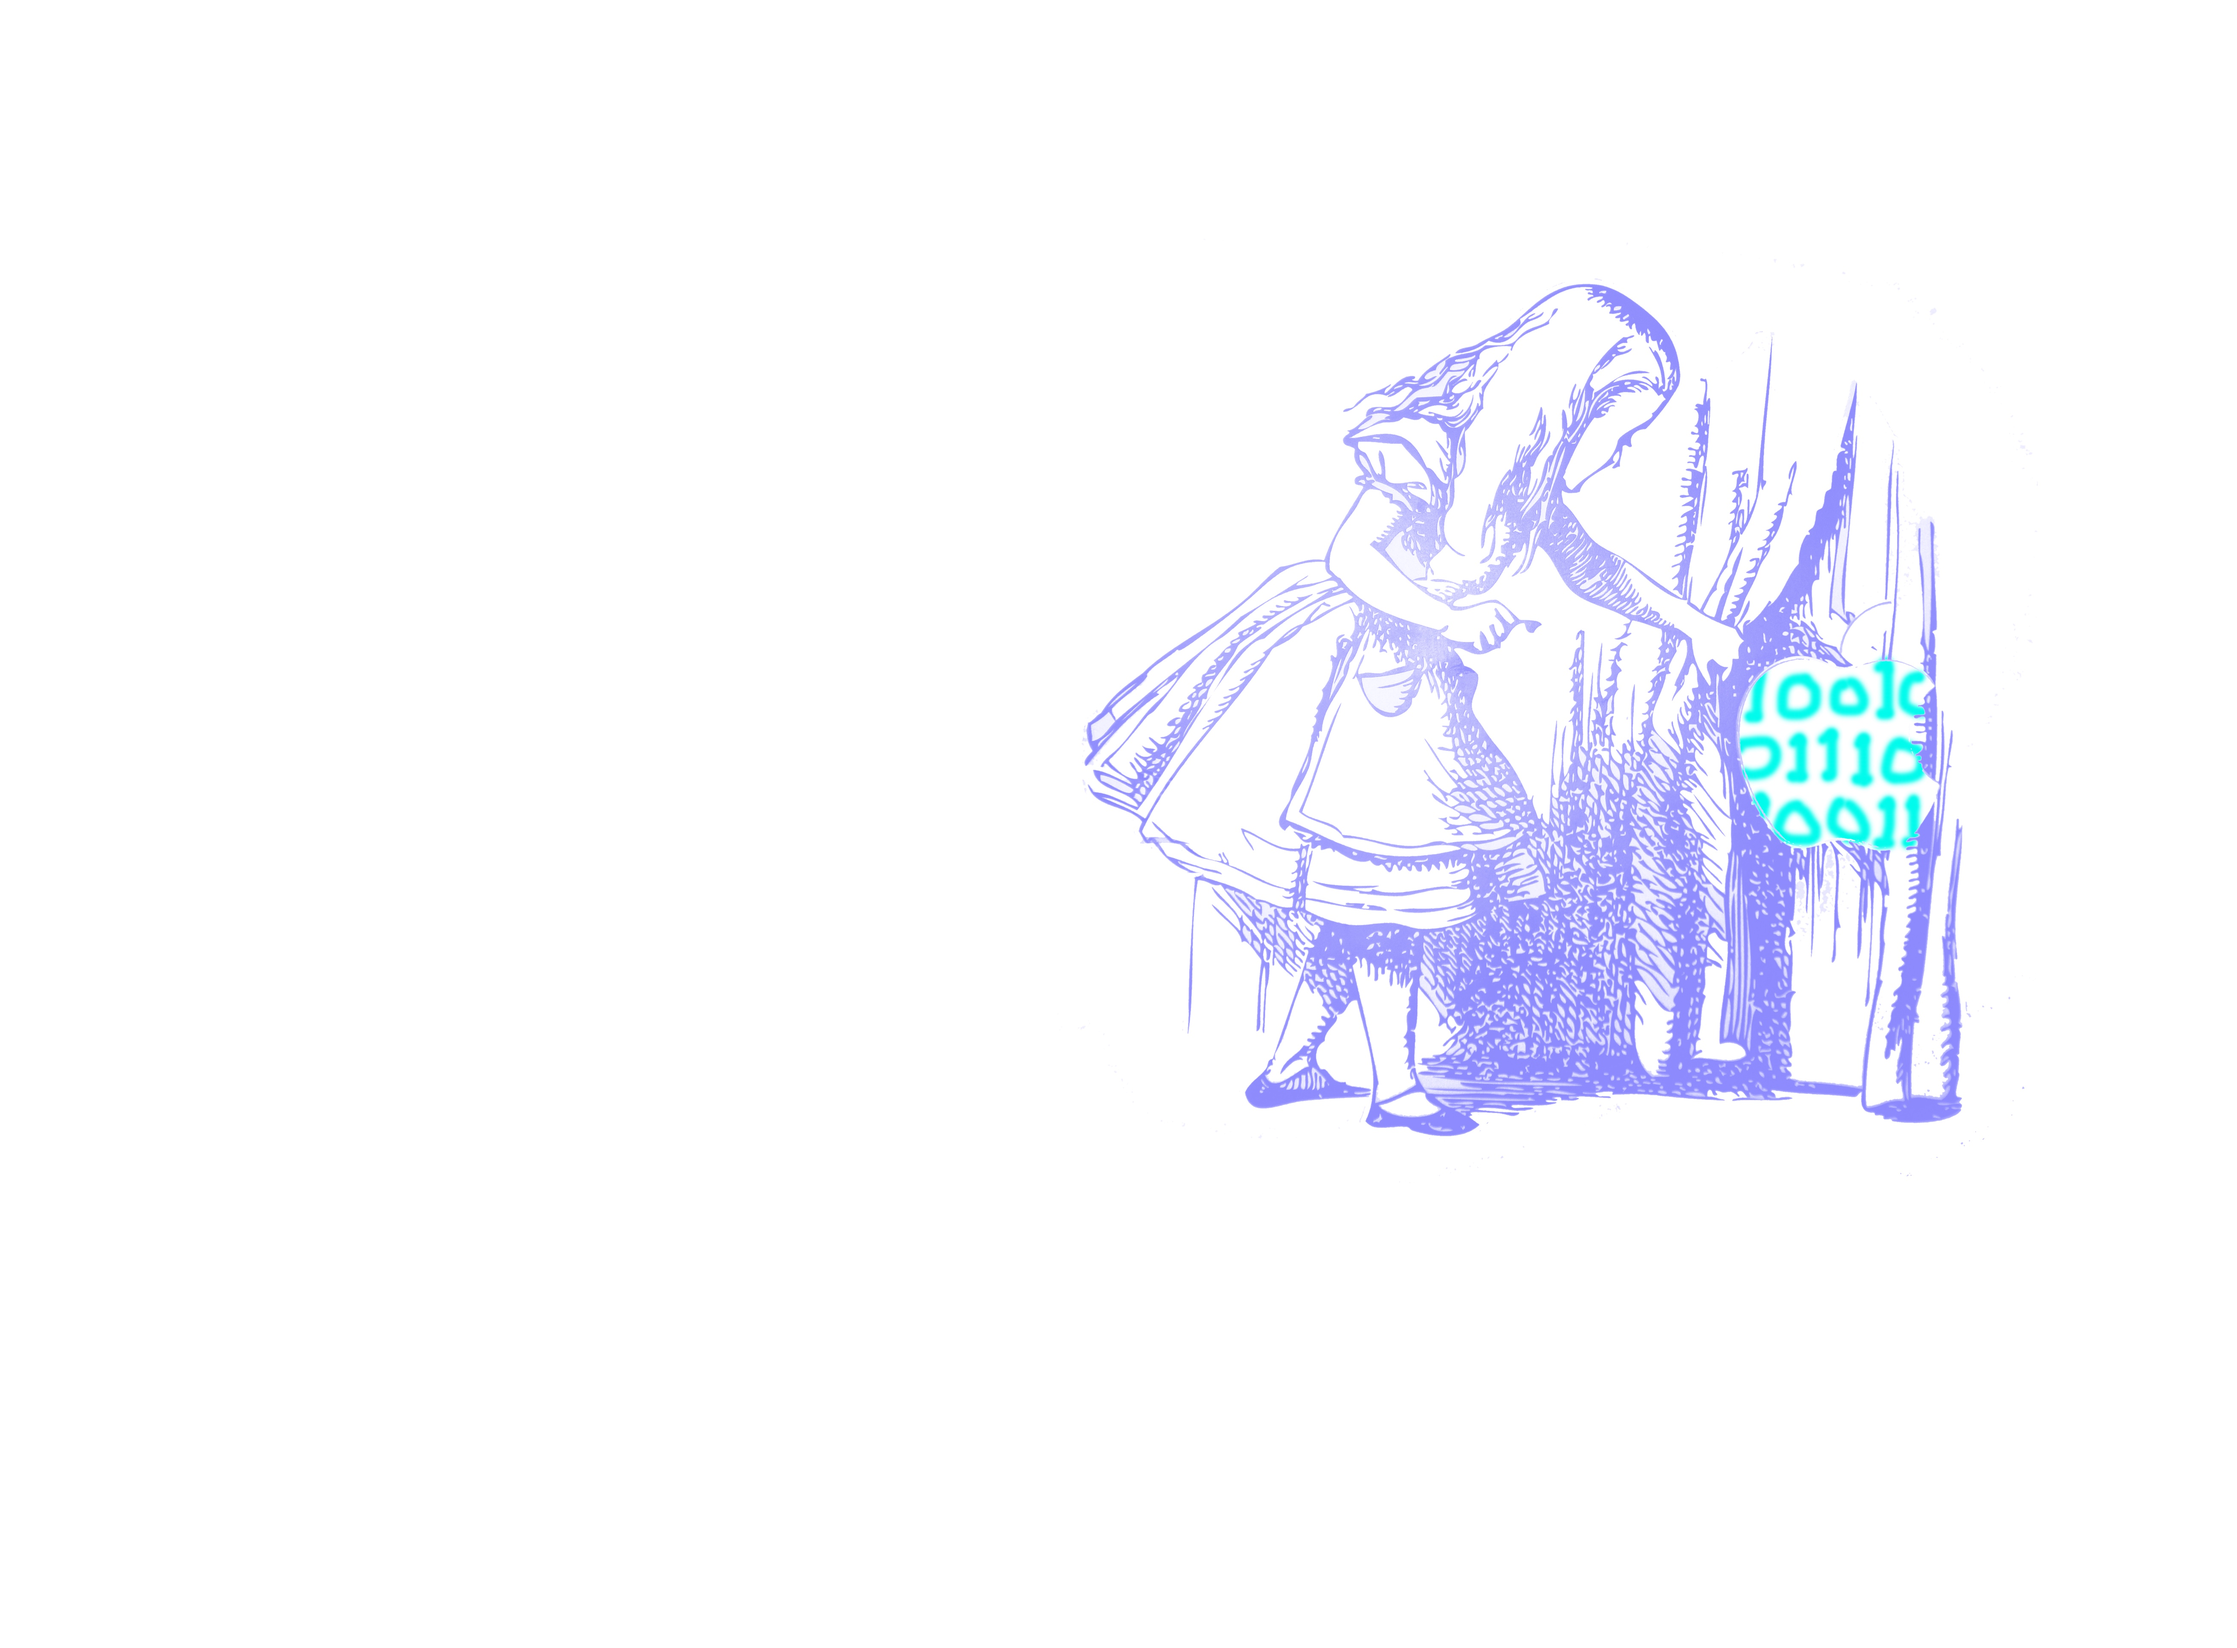
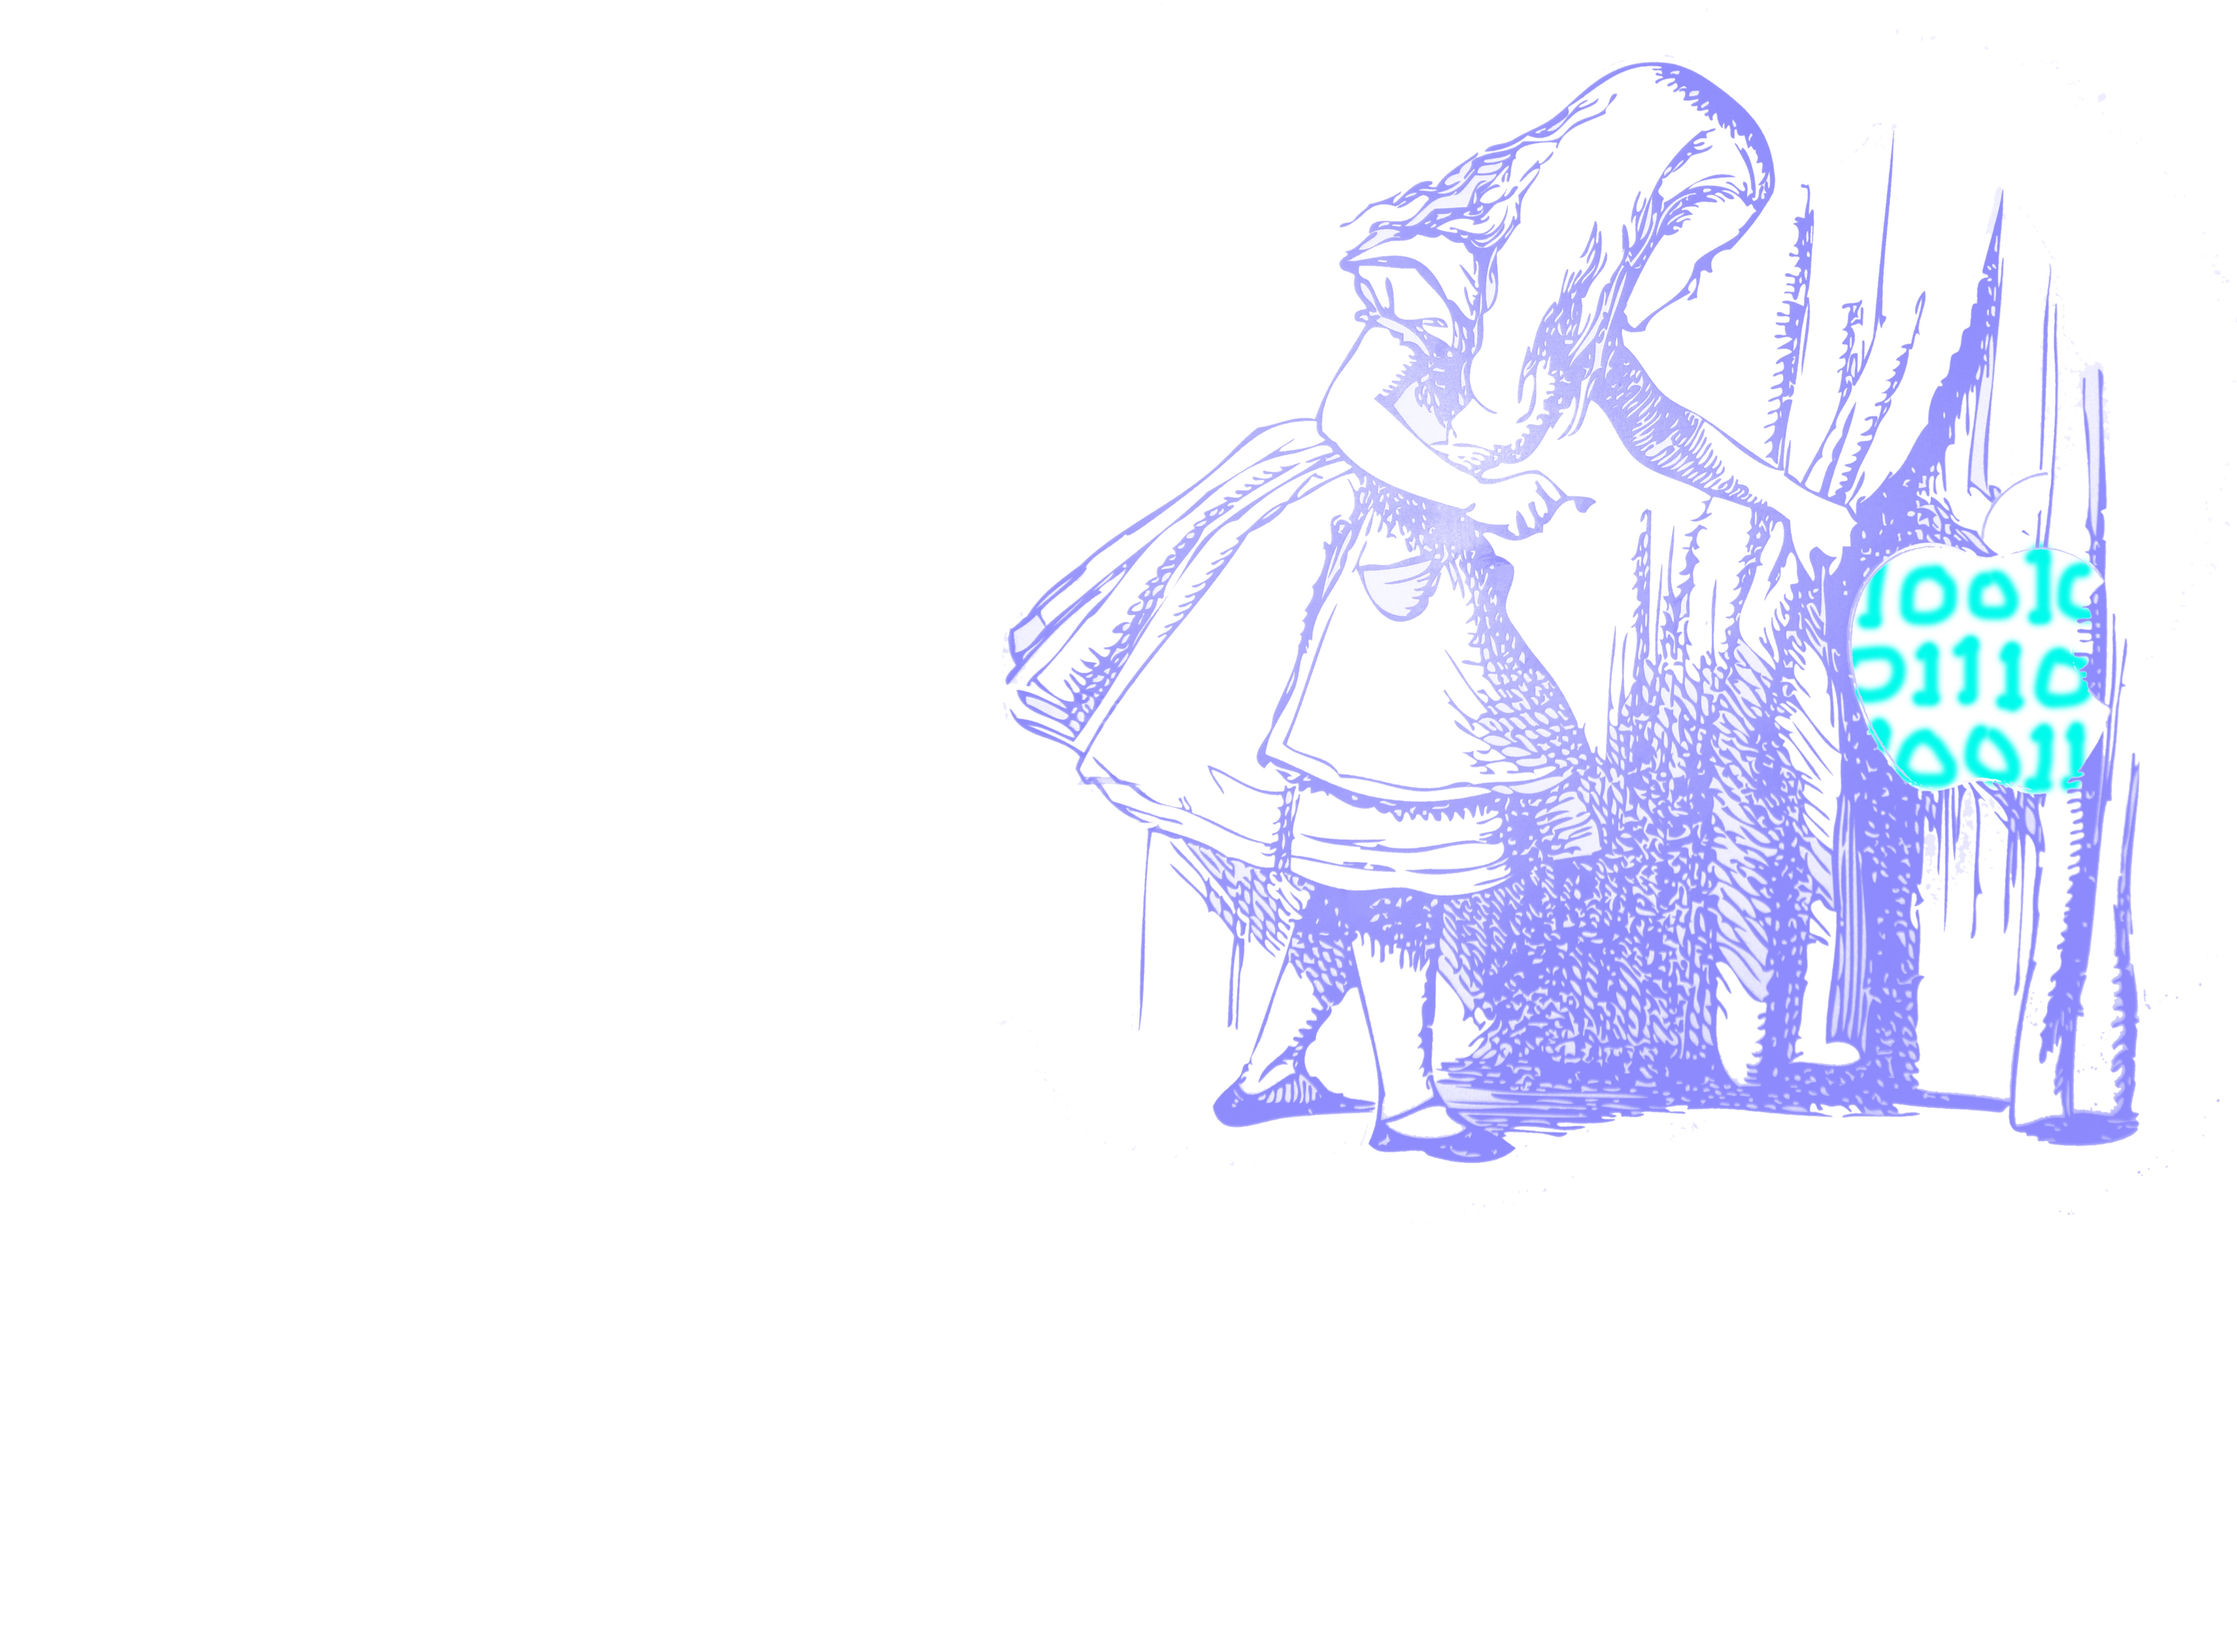
adjust background image

Changed region(s): [[0.4352, 0.0311, 0.9636, 0.7145]]

diff --git a/_site/css/styles.css b/_site/css/styles.css
@@ -6,10 +6,10 @@
 
 body {
   background-image: url(/images/alice.jpg);
+  background-size: contain;
   background-position: center center;
   background-repeat: no-repeat;
   background-attachment: fixed;
-  background-size:cover;
   color: #888;
   font: 300 16px/22px "Lato", "Open Sans", "Helvetica Neue", Helvetica, Arial, sans-serif;
   max-width: 90%;
@@ -100,7 +100,7 @@ h4 {
   padding: 10px;
   margin-left: 3%;
   line-height: 25px;
-  background: rgba(255, 255, 255, 0.79);
+  background: rgba(255, 255, 255, 0.49);
   max-width: 65%;
   min-width: 300px;
   text-align: left;

diff --git a/css/styles.css b/css/styles.css
@@ -6,10 +6,10 @@
 
 body {
   background-image: url(/images/alice.jpg);
+  background-size: contain;
   background-position: center center;
   background-repeat: no-repeat;
   background-attachment: fixed;
-  background-size:cover;
   color: #888;
   font: 300 16px/22px "Lato", "Open Sans", "Helvetica Neue", Helvetica, Arial, sans-serif;
   max-width: 90%;
@@ -100,7 +100,7 @@ h4 {
   padding: 10px;
   margin-left: 3%;
   line-height: 25px;
-  background: rgba(255, 255, 255, 0.79);
+  background: rgba(255, 255, 255, 0.49);
   max-width: 65%;
   min-width: 300px;
   text-align: left;
